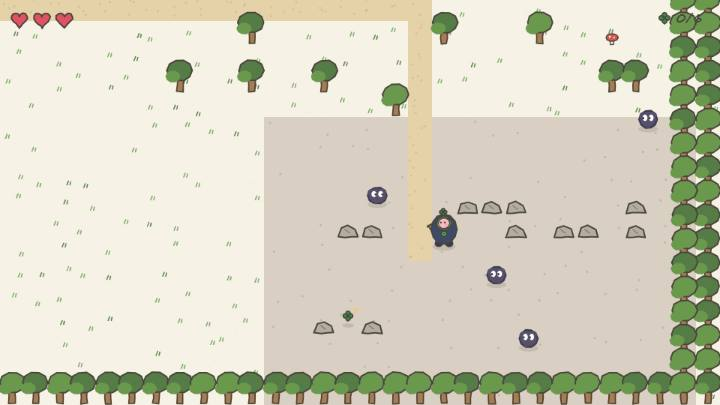
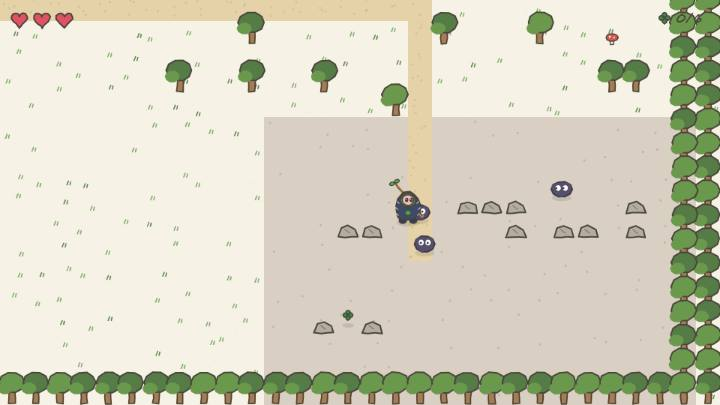
art: nino fiel ao desenho original - bastao nas costas com lacinho verde, corpo de curvinhas com costuras, olhoes escuros; espada vira bastao nos textos; prints novos no readme

diff --git a/src/characters.ts b/src/characters.ts
@@ -19,9 +19,42 @@ export function drawClover(ctx: CanvasRenderingContext2D, cx: number, cy: number
   }
 }
 
+/** silhueta do corpo do nino: gorducho com curvinhas harmoniosas (não é um oval perfeito) */
+function ninoBodyPts(cx: number, cy: number): [number, number][] {
+  const pts: [number, number][] = []
+  const n = 22
+  for (let i = 0; i < n; i++) {
+    const a = (i / n) * Math.PI * 2
+    const belly = 1 + 0.16 * Math.max(0, Math.sin(a)) // mais larguinho embaixo
+    const curvinhas = 1 + 0.05 * Math.sin(3 * a + 0.9) // ondulações suaves do traço
+    pts.push([cx + Math.cos(a) * 16 * belly * curvinhas, cy + Math.sin(a) * 19 * curvinhas])
+  }
+  return pts
+}
+
+/** bastão de madeira atravessado nas costas: ponta com lacinho verde em cima à esquerda, cabo espiando na cintura */
+function drawBastao(ctx: CanvasRenderingContext2D, seed: number) {
+  sketchLine(ctx, 19, -9, -17, -52, seed, PAL.wood, 4, 0.8)
+  sketchLine(ctx, 19, -9, -17, -52, seed + 1, PAL.pencil, 1.1, 0.9)
+  // listrinhas do cabo (a parte que aparece na cintura)
+  sketchLine(ctx, 13.4, -14.6, 17.2, -11.6, seed + 2, PAL.pencil, 1.2, 0.4)
+  sketchLine(ctx, 11.2, -17.3, 15, -14.3, seed + 3, PAL.pencil, 1.2, 0.4)
+  // lacinho verde na pontinha
+  ctx.save()
+  ctx.translate(-17, -52)
+  ctx.rotate(-0.35)
+  sketchEllipse(ctx, -4.2, -1.2, 3.4, 2.3, seed + 4, PAL.ninoHoodRim, PAL.pencil, 1.3)
+  sketchEllipse(ctx, 3, -2.2, 3.4, 2.3, seed + 5, PAL.ninoHoodRim, PAL.pencil, 1.3)
+  ctx.fillStyle = PAL.pencil
+  ctx.beginPath()
+  ctx.arc(-0.5, -1.5, 1.3, 0, Math.PI * 2)
+  ctx.fill()
+  ctx.restore()
+}
+
 /**
  * nino, o player. `t` anima (bob/passos), `walking` liga as perninhas,
- * `facing` espelha o lado da espada.
+ * `facing` espelha o lado do bastão.
  */
 export function drawNino(
   ctx: CanvasRenderingContext2D,
@@ -49,41 +82,59 @@ export function drawNino(
   sketchEllipse(ctx, -7, -3 + step, 5, 4, seed + 5, PAL.ninoBodyDark, PAL.pencil, 1.6)
   sketchEllipse(ctx, 7, -3 - step, 5, 4, seed + 6, PAL.ninoBodyDark, PAL.pencil, 1.6)
 
-  // cabo da espada de madeira (na cintura)
-  ctx.save()
-  ctx.translate(14, -20)
-  ctx.rotate(0.6)
-  sketchRect(ctx, -2.5, -9, 5, 14, seed + 7, PAL.wood, PAL.pencil, 1.6)
-  sketchLine(ctx, -4, -9, 4, -9, seed + 8, PAL.pencil, 2, 0.6)
-  ctx.restore()
+  // bastão nas costas (o corpo cobre o meio; sobram a ponta com lacinho e o cabo)
+  drawBastao(ctx, seed + 7)
 
-  // corpo gorducho
-  sketchEllipse(ctx, 0, -22, 17, 20, seed, PAL.ninoBody, PAL.pencil, 2.2)
-  // botão verde
-  sketchEllipse(ctx, 0, -16, 3.6, 3.6, seed + 1, PAL.ninoButton, PAL.pencil, 1.5)
-  sketchLine(ctx, -1.4, -16, 1.4, -16, seed + 12, PAL.pencil, 1, 0.4)
+  // corpo gorducho de curvinhas
+  sketchPoly(ctx, ninoBodyPts(0, -22), seed, PAL.ninoBody, PAL.pencil, 2.2)
+  // costurinhas do traje
+  ctx.strokeStyle = 'rgba(247, 242, 230, 0.65)'
+  ctx.lineWidth = 1.2
+  ctx.lineCap = 'round'
+  ctx.beginPath()
+  for (const [sx, sy] of [
+    [-15.5, -12],
+    [-16.5, -20],
+    [-14.5, -28],
+    [15.5, -12],
+    [16.5, -20],
+    [14.5, -28],
+  ]) {
+    ctx.moveTo(sx, sy)
+    ctx.lineTo(sx * 0.82, sy + 2.4)
+  }
+  ctx.stroke()
+  // botão verde com furinhos
+  sketchEllipse(ctx, 0, -13, 4, 4, seed + 1, PAL.ninoButton, PAL.pencil, 1.5)
+  ctx.fillStyle = '#2e7d32'
+  ctx.beginPath()
+  for (const [bx, by] of [
+    [-1.3, -14.3],
+    [1.3, -14.3],
+    [-1.3, -11.7],
+    [1.3, -11.7],
+  ]) {
+    ctx.moveTo(bx + 0.8, by)
+    ctx.arc(bx, by, 0.8, 0, Math.PI * 2)
+  }
+  ctx.fill()
 
   // abertura do capuz com aro verde + rosto rosa
   sketchEllipse(ctx, 0, -30, 10.5, 9.5, seed + 2, PAL.ninoHoodRim, PAL.pencil, 2)
   sketchEllipse(ctx, 0, -30, 8, 7.2, seed + 3, PAL.ninoFace, PAL.pencil, 1.6)
 
-  // olhinhos + bochechas (sempre virados pro lado do movimento)
+  // olhões escuros (sempre virados pro lado do movimento)
+  const look = facing === 'up' ? 0 : 1.2
   ctx.fillStyle = PAL.pencil
-  const look = facing === 'up' ? 0 : 1.5
   ctx.beginPath()
-  ctx.arc(-2.6 + look, -31, 1.3, 0, Math.PI * 2)
-  ctx.arc(2.6 + look, -31, 1.3, 0, Math.PI * 2)
+  ctx.ellipse(-3 + look, -30.2, 2.4, 3.2, 0, 0, Math.PI * 2)
+  ctx.ellipse(3 + look, -30.2, 2.4, 3.2, 0, 0, Math.PI * 2)
   ctx.fill()
-  ctx.fillStyle = PAL.ninoBlush
-  ctx.globalAlpha = 0.7
+  ctx.fillStyle = '#ffffff'
   ctx.beginPath()
-  ctx.arc(-4.5 + look, -28, 1.6, 0, Math.PI * 2)
-  ctx.arc(4.5 + look, -28, 1.6, 0, Math.PI * 2)
+  ctx.arc(-3.8 + look, -31.4, 0.7, 0, Math.PI * 2)
+  ctx.arc(2.2 + look, -31.4, 0.7, 0, Math.PI * 2)
   ctx.fill()
-  ctx.globalAlpha = 1
-
-  // trevo na cabeça
-  drawClover(ctx, 1, -45, 6, seed + 4)
 
   ctx.restore()
 }
@@ -226,15 +277,23 @@ export function drawPortrait(ctx: CanvasRenderingContext2D, who: 'nino' | 'canel
   ctx.arc(cx, cy, 24, 0, Math.PI * 2)
   ctx.clip()
   if (who === 'nino') {
+    // pontinha do bastão com lacinho aparecendo atrás do capuz (dentro da moldura)
+    sketchLine(ctx, cx + 15, cy + 21, cx - 10, cy - 13, 44, PAL.wood, 4, 0.8)
+    sketchEllipse(ctx, cx - 13.5, cy - 14, 3.2, 2.3, 45, PAL.ninoHoodRim, PAL.pencil, 1.3)
+    sketchEllipse(ctx, cx - 7.5, cy - 16, 3.2, 2.3, 46, PAL.ninoHoodRim, PAL.pencil, 1.3)
     sketchEllipse(ctx, cx, cy + 22, 24, 20, 41, PAL.ninoBody, PAL.pencil, 2)
     sketchEllipse(ctx, cx, cy - 2, 16, 15, 42, PAL.ninoHoodRim, PAL.pencil, 2)
     sketchEllipse(ctx, cx, cy - 2, 12.5, 11.5, 43, PAL.ninoFace, PAL.pencil, 1.6)
     ctx.fillStyle = PAL.pencil
     ctx.beginPath()
-    ctx.arc(cx - 4, cy - 4, 1.8, 0, Math.PI * 2)
-    ctx.arc(cx + 4, cy - 4, 1.8, 0, Math.PI * 2)
+    ctx.ellipse(cx - 4.5, cy - 3, 3.4, 4.6, 0, 0, Math.PI * 2)
+    ctx.ellipse(cx + 4.5, cy - 3, 3.4, 4.6, 0, 0, Math.PI * 2)
     ctx.fill()
-    drawClover(ctx, cx + 1, cy - 20, 7, 44)
+    ctx.fillStyle = '#ffffff'
+    ctx.beginPath()
+    ctx.arc(cx - 5.6, cy - 4.6, 1, 0, Math.PI * 2)
+    ctx.arc(cx + 3.4, cy - 4.6, 1, 0, Math.PI * 2)
+    ctx.fill()
   } else if (who === 'canela') {
     sketchPoly(ctx, [[cx - 14, cy - 22], [cx - 5, cy - 8], [cx - 20, cy - 8]], 45, PAL.foxOrange, PAL.pencil, 2)
     sketchPoly(ctx, [[cx + 14, cy - 22], [cx + 20, cy - 8], [cx + 5, cy - 8]], 46, PAL.foxOrange, PAL.pencil, 2)

diff --git a/src/input.ts b/src/input.ts
@@ -1,4 +1,4 @@
-// entrada do jogo: teclado (setas/wasd + e/espaço falar + x espada)
+// entrada do jogo: teclado (setas/wasd + e/espaço falar + x bastão)
 // e toque (direcional virtual à esquerda, botões à direita).
 
 import { VIEW_W, VIEW_H } from './constants'
@@ -7,7 +7,7 @@ export interface InputState {
   moveX: number
   moveY: number
   actionPressed: boolean // falar / avançar conversa (consumido a cada frame)
-  attackPressed: boolean // espada (consumido a cada frame)
+  attackPressed: boolean // bastão (consumido a cada frame)
   touchVisible: boolean
   dpadActive: boolean
   dpadDX: number
@@ -18,7 +18,7 @@ export interface InputState {
 // posições dos controles de toque (coordenadas lógicas do canvas)
 export const DPAD = { x: 92, y: VIEW_H - 92, r: 62 }
 export const BTN_A = { x: VIEW_W - 66, y: VIEW_H - 64, r: 30 } // falar
-export const BTN_B = { x: VIEW_W - 138, y: VIEW_H - 100, r: 26 } // espada
+export const BTN_B = { x: VIEW_W - 138, y: VIEW_H - 100, r: 26 } // bastão
 // raio de ACERTO dos botões (maior que o desenho: dedo no celular precisa de área generosa)
 const BTN_HIT = 56
 

diff --git a/src/dialogue.ts b/src/dialogue.ts
@@ -17,7 +17,7 @@ export function dialogueFor(npc: NpcId, stage: QuestStage, trevos: number): Dial
         { who: 'canela', text: 'um borrão de tinta gigante passou pelo vale espirrando manchas por tudo que é lado...' },
         { who: 'nino', text: '...então era por isso que o céu tava cinza no meu sonho.' },
         { who: 'canela', text: `e o pior: os ${TOTAL_TREVOS} trevos da sorte se espalharam! sem eles, as cores do vale vão desbotando.` },
-        { who: 'canela', text: 'os borrõezinhos guardam alguns. um golpe da sua espada de madeira resolve — sem dó, eles são só tinta!' },
+        { who: 'canela', text: 'os borrõezinhos guardam alguns. um golpe do seu bastão resolve — sem dó, eles são só tinta!' },
         { who: 'canela', text: 'procura na floresta e nas pedras do sul. eu fico de olho na vila. boa sorte! ✿' },
       ]
     }

diff --git a/src/game.ts b/src/game.ts
@@ -35,7 +35,7 @@ export class Game {
     walking: false,
     hearts: MAX_HEARTS,
     iframes: 0,
-    attackT: 0, // >0 = espada em movimento
+    attackT: 0, // >0 = bastão em movimento
     attackCd: 0,
   }
   npcs: Npc[] = []

diff --git a/src/main.ts b/src/main.ts
@@ -10,7 +10,7 @@ const app = document.querySelector<HTMLDivElement>('#app')!
 app.innerHTML = `
   <div class="frame">
     <canvas id="game"></canvas>
-    <p class="hint">setas/wasd = andar · e ou espaço = falar · x = espada · no celular: controles na tela</p>
+    <p class="hint">setas/wasd = andar · e ou espaço = falar · x = bastão · no celular: controles na tela</p>
   </div>
 `
 

diff --git a/src/render.ts b/src/render.ts
@@ -394,7 +394,7 @@ function drawTouchControls(ctx: CanvasRenderingContext2D, input: InputState) {
   ctx.textAlign = 'center'
   ctx.textBaseline = 'middle'
   ctx.fillText('falar', BTN_A.x, BTN_A.y)
-  ctx.fillText('espada', BTN_B.x, BTN_B.y)
+  ctx.fillText('bastão', BTN_B.x, BTN_B.y)
   ctx.restore()
 }
 

diff --git a/README.md b/README.md
@@ -25,7 +25,7 @@ Jogo 2D top-down com estética de **desenho feito à mão** — contornos tremid
 
 ## História
 
-Um borrão de tinta gigante passou pelo vale espirrando manchas por tudo que é lado — e os **6 trevos da sorte** se espalharam. Sem eles, as cores do vale vão desbotando. **Nino**, o ninja de trevo na cabeça, precisa recuperá-los: alguns estão perdidos pela floresta, outros ficaram com os **borrõezinhos** que rondam as pedras do sul. A raposa **Canela** orienta a missão; a **Dona Lesma** comenta tudo do jeito dela (bem devagar).
+Um borrão de tinta gigante passou pelo vale espirrando manchas por tudo que é lado — e os **6 trevos da sorte** se espalharam. Sem eles, as cores do vale vão desbotando. **Nino**, o ninja do bastão de lacinho, precisa recuperá-los: alguns estão perdidos pela floresta, outros ficaram com os **borrõezinhos** que rondam as pedras do sul. A raposa **Canela** orienta a missão; a **Dona Lesma** comenta tudo do jeito dela (bem devagar).
 
 ## Como jogar
 
@@ -33,7 +33,7 @@ Um borrão de tinta gigante passou pelo vale espirrando manchas por tudo que é 
 | --- | --- | --- |
 | andar | setas / WASD | direcional virtual |
 | falar / avançar conversa | E, espaço ou clique | botão **falar** (ou toque na tela) |
-| espada | X ou J | botão **espada** |
+| bastão | X ou J | botão **bastão** |
 
 Trevos são coletados passando por cima. Encostar num borrão custa um coração; zerando os corações, o Nino desmaia e acorda na vila — sem perder progresso.
 
@@ -78,7 +78,7 @@ Abra `http://localhost:5173` (ou a porta que o Vite indicar). Com `?debug=1` na 
 
 ## Roadmap
 
-- [ ] Sons (passos, espada, coleta, falas)
+- [ ] Sons (passos, bastão, coleta, falas)
 - [ ] Save de progresso no navegador
 - [ ] "Evolução" da Canela (mecânica de amizade inspirada nas setas arco-íris do desenho original)
 - [ ] Capítulo 2: de onde veio o borrão gigante?